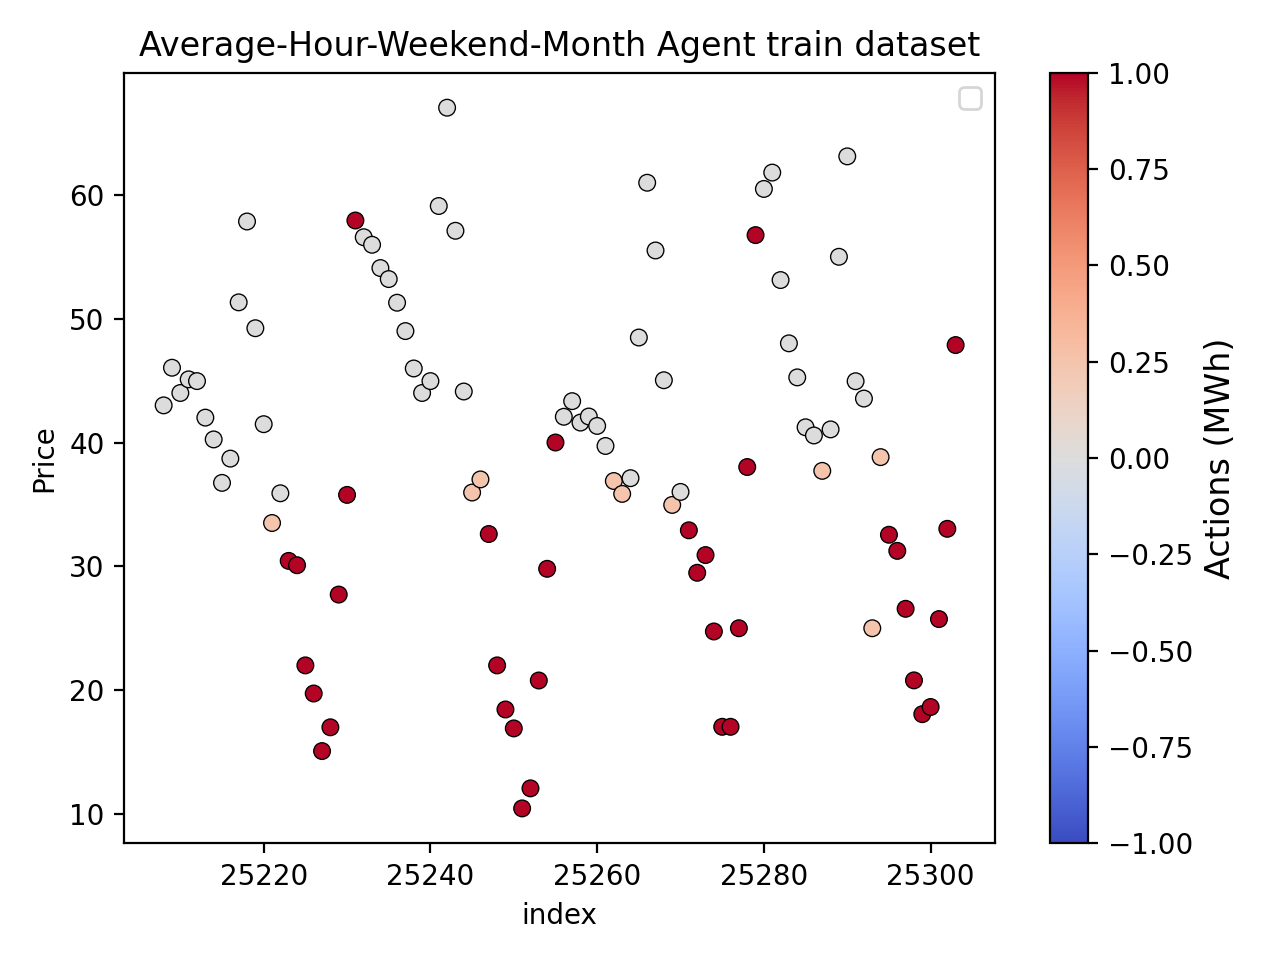
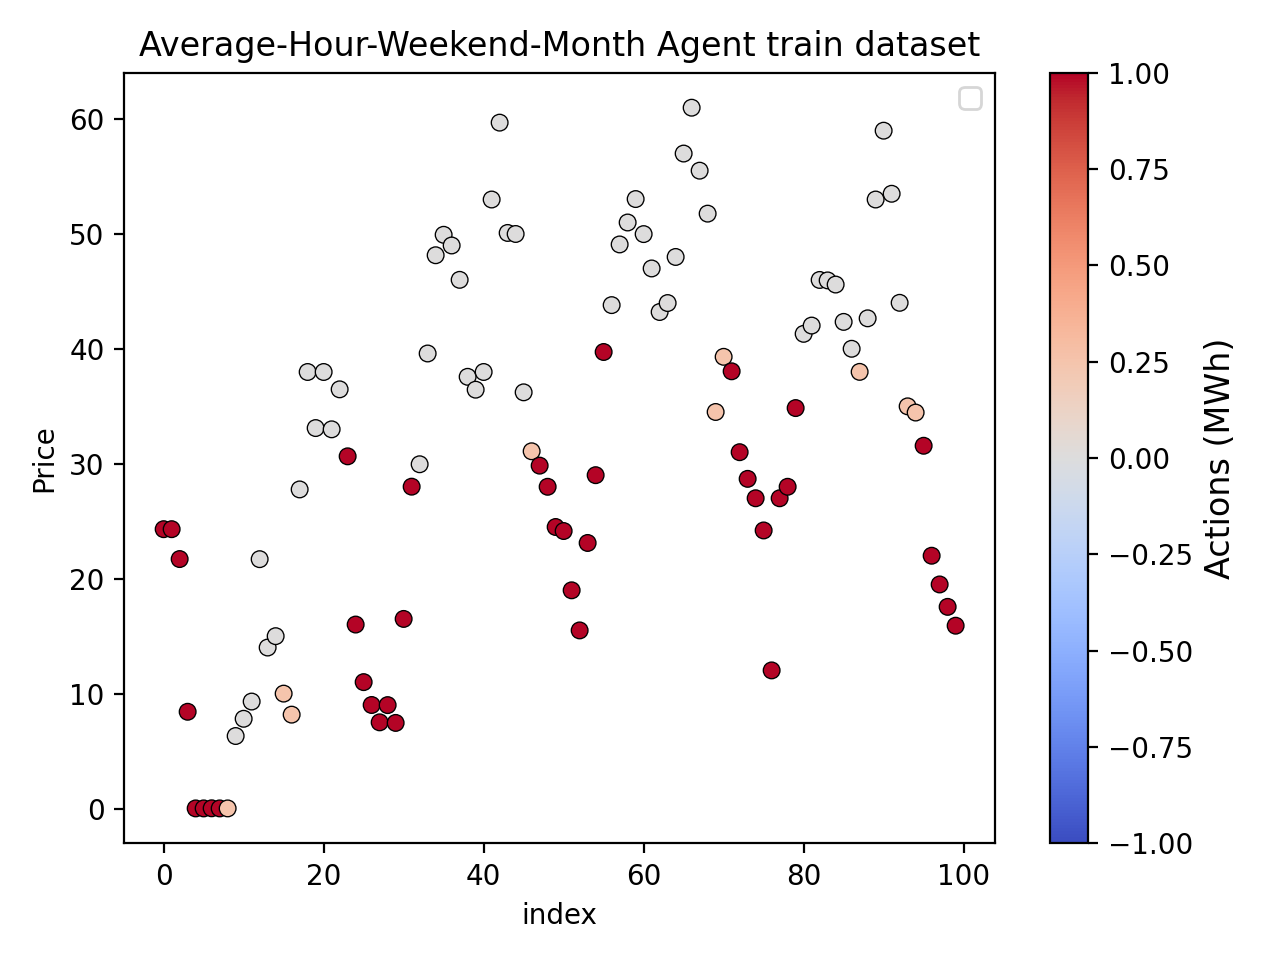
final results before cleanup

diff --git a/main.py b/main.py
@@ -2,8 +2,11 @@ from env import DataCenterEnv
 import numpy as np
 import argparse
 from utils import preprocess_state, extract_bf_number
-from agents import AverageHour, QAgent
+from agents import RandomAgent, AverageHour, QAgent
 import os
+from matplotlib import pyplot as plt
+from pandas import DataFrame
+import seaborn as sns
 
 
 def main(path_to_dataset:str, retrain:bool = False, PRINT:bool = False, agent_params:list|bool = False, retACTIONS: bool = False, 
@@ -12,14 +15,8 @@ def main(path_to_dataset:str, retrain:bool = False, PRINT:bool = False, agent_pa
     # hardcoded agent by hour
     if agent_params:
         agent = AverageHour(*agent_params)
-    # else:
-    #     agent = AverageHour()
-    # agent = Average()
-    
-    # agent = HourAgent()
-    # agent = WeekdayAgent()
-    # Function to extract the BF (best fitness) number
 
+    # QAgent
     elif Agent == QAgent:
         Qtables = [file for file in os.listdir() if file.startswith('Qtable')]
         if len(Qtables) == 0 or retrain == True:
@@ -28,10 +25,12 @@ def main(path_to_dataset:str, retrain:bool = False, PRINT:bool = False, agent_pa
         
         else:
             # Find the file with the highest BF number
-            highest_bf_file = max(Qtables, key=extract_bf_number)
+            # highest_bf_file ='Qtable(5_storages)_eps100_BF-1.752.npy'
+            highest_bf_file ='Qtable(sells)_300sims_epsd100lrd200_df0.99_BF-1.741.npy'
+            # highest_bf_file = max(Qtables, key=extract_bf_number)
             print(f'Using this Qtable: {highest_bf_file}')
             agent = Agent(Qtable_dir = highest_bf_file)
-            
+            # breakpoint()
     
     else:
         agent = Agent()
@@ -58,7 +57,7 @@ def main(path_to_dataset:str, retrain:bool = False, PRINT:bool = False, agent_pa
         action = agent.act(state)
 
         actions.append(action)
-        # action = np.random.uniform(-1, 1)
+
         # next_state is given as: [storage_level, price, hour, day]
         next_state, reward, terminated = environment.step(action)
         # adds relevant features so that now each state is: 
@@ -78,19 +77,160 @@ def main(path_to_dataset:str, retrain:bool = False, PRINT:bool = False, agent_pa
     print(f'Total reward in {nyears} years:', aggregate_reward)
     print('Average reward / year', aggregate_reward / nyears)
 
-    if retACTIONS:
-        return aggregate_reward / nyears, actions
+    if retACTIONS:    
+        return aggregate_reward / nyears, actions, agent
     else:
         return aggregate_reward / nyears
+
+# had to put here because in utils.py had issue with circular imports 
+def performance_plots():
+    files = ['train.xlsx', 'validate.xlsx']
+    names = {0:'Random Agent', 1: 'Average-Hour-Weekend-Month Agent', 2:'Q-learning Agent'}
+    results = DataFrame({'Agent':['Random Agent','Average-Hour-Weekend-Month Agent', 'Q-learning agent'] * 2,
+                        'Dataset': ['train']*3 + ['validate']*3,
+                        'Yearly Cost': [0]*6})
+    count = -1
+    for file in files:
+        dataset = file.split('.')[0]
+        for ia, Agnt in enumerate([RandomAgent, AverageHour, QAgent]):
+            count += 1
+            
+            if Agnt is QAgent:
+                res, acts, agent = main(path_to_dataset=file, retACTIONS=True, Agent= Agnt)
+            else:
+                res, acts, _ = main(path_to_dataset=file, retACTIONS=True, Agent= Agnt)
+
+            results.iloc[count,-1] = -res
+            # if count == 2:
+            data = DataCenterEnv(file).test_data
+            data = data.melt(id_vars='PRICES', var_name='Hour', value_name='Price')
+            data.rename(columns={'PRICES':'Date'}, inplace=True)
+            data = data.sort_values(by=['Date', 'Hour']).reset_index(drop=True)
+            data['Action'] = acts + [0]
+            data['index'] = data.index
+            
+            ############################################
+            # Q table plot (adapted from tutorial notebook)
+            if Agnt is QAgent and file == 'validate.xlsx':
+                # Qt_HIprice, Qt_LOprice, Qt_Mprice = agent.Qtable[:,:,0,:], agent.Qtable[:,:,1,:], agent.Qtable[:,:,2,:]
+                
+                # loop through price levels and 1 plot / price level
+                for price_cat in range(agent.Qtable.shape[2]):
+                    prices = {0:"Above",
+                              1:"Below",
+                              2:"Around"}
+                    
+                    X, Y = np.meshgrid(np.arange(agent.hours.size + 1), np.arange(agent.storage.size + 1))
+                    # breakpoint()
+                    Z = np.zeros((len(X), len(Y)))
+                    A = np.zeros(Z.shape)
+
+                    # hour
+                    for h in range(len(X)):
+                        # storage
+                        for s in range(len(Y)):
+                            a = np.argmax(agent.Qtable[h, s, price_cat,:])
+                            A[h][s] = agent.actions[a] # store "best"actions for hour, storage, price pair
+                            Z[h][s] = agent.Qtable[h, s, price_cat, a] # store corresponding Qvalues
+
+                    fig = plt.figure()
+                    ax = fig.add_subplot(111, projection='3d')
+
+                    # Normalize action values for colormap mapping
+                    norm = plt.Normalize(vmin=-1, vmax=1)  # Ensure -1 is blue, 0 is white, 1 is red
+                    cmap = plt.cm.coolwarm  # Define colormap
+
+                    # Map action values to colors
+                    colors = cmap(norm(A))
+
+                    # Create surface plot with manually mapped colors
+                    surf = ax.plot_surface(X, Y, Z, facecolors=colors, linewidth=0, antialiased=False)
+                    ax.view_init(elev=38, azim=-126) 
+                    
+                    # Remove default ticks and set custom labels
+                    ax.set_xticks([0, 1, 2, 3, 4])  # Positions
+                    ax.set_xticklabels(["Morning", "Noon", "Afternoon", "Evening", "Night"], fontsize=10)
+
+                    ax.set_yticks([0, 1, 2, 3, 4])  # Positions
+                    ax.set_yticklabels(["< 40", "< 80", "< 120", "< 150", "> 150"], fontsize=10)
+
+                    # Optionally remove the tick marks
+                    ax.tick_params(axis='x', which='both', bottom=False, top=False)  # Remove x-axis ticks
+                    ax.tick_params(axis='y', which='both', left=False, right=False)  # Remove y-axis ticks
+                    
+                    # Set labels
+                    ax.set_xlabel('Hour', fontsize=12)
+                    ax.set_ylabel('Storage Level', fontsize=12)
+                    ax.set_zlabel('Q-Value', fontsize=12)
+                    ax.set_title(f'Q-Table (Price Category: {prices[price_cat]} moving weekly average)', fontsize=14)
+
+                    # Create a separate colorbar for actions
+                    sm = plt.cm.ScalarMappable(cmap=cmap, norm=norm)
+                    sm.set_array([])  # Dummy array for colorbar
+                    cbar = fig.colorbar(sm, ax = ax, shrink=0.5, aspect=5)
+                    cbar.set_label('Best Action ±(10 MWh)', fontsize=12)
+
+                    plt.tight_layout()
+                    plt.savefig(f'Qtable{price_cat}.png', dpi = 200)
+                    # plt.show()
+                    plt.close()
+            
+            #################
+            # Time series plot
+            plt.figure()
+            # only plot x days
+            if Agnt: #is QAgent and file == 'validate.xlsx':
+                # breakpoint()
+                slice_to_plot = data.iloc[:100,:]#[-24*31:,:]#[100:7 * 24 + 100,:]#[-72:,:]#[-1096:-1000,:]
+            
+                plot = sns.scatterplot(data = slice_to_plot, x = 'index', y = 'Price', hue = 'Action', hue_norm=(-1,1), palette = 'coolwarm',edgecolor='k', legend = False)
+                plt.title(f'{names[ia]} {dataset} dataset')
+                # plt.yscale('log')
+                plt.legend()
+                norm = plt.Normalize(vmin=-1, vmax=1)
+                sm = plt.cm.ScalarMappable(norm=norm, cmap='coolwarm')
+                sm.set_array([])  # This is required for ScalarMappable to work properly
+                
+                cbar = plt.colorbar(sm, ax=plt.gca())
+                cbar.set_label('Actions (MWh)', fontsize=12)
+                
+                plt.tight_layout()
+                plt.savefig(f'{names[ia]} {dataset}_{slice_to_plot.shape[0]//24}DAYS.png', dpi = 200)
+                # plt.show()
+                plt.close()
+
+    ###################################
+    # Overall AGENTS comparison barplot
+    plt.figure(figsize=(10,10))
+    bp = sns.barplot(data = results, x = 'Dataset', y = 'Yearly Cost', hue = 'Agent', legend=True)
+    # Add data labels
+    for bar in bp.patches:
+        bp.annotate(
+            format(bar.get_height(), '.2e'),  # Format the value
+            (bar.get_x() + bar.get_width() / 2., bar.get_height()),  # Position the label
+            ha='center', va='bottom', size=9  # Alignment and font size
+        )
+    plt.title('Yearly Costs across datasets & agents')
+    plt.legend(loc = 'lower right', facecolor = 'white', framealpha = .95)
+    bp.set_ylabel('Yearly Cost (Millions $)')
+    plt.tight_layout()
+    plt.savefig(f'RESULTS_train-vs-validate.png', dpi = 200)
+    # plt.show()
 
 if __name__ == '__main__':
     args = argparse.ArgumentParser()
     args.add_argument('--path', type=str, default='train.xlsx')
     args.add_argument('--retrain', type=bool, default=False)
+    args.add_argument('--plots', type=bool, default=True)
     args = args.parse_args()
 
     np.set_printoptions(suppress=True, precision=2)
     path_to_dataset = args.path
     reTRAIN = args.retrain
+
     
     main(path_to_dataset=path_to_dataset, retrain=reTRAIN)
+    
+    # make & save plots
+    if args.plots:
+        performance_plots()

diff --git a/agents.py b/agents.py
@@ -213,7 +213,7 @@ class QAgent:
 
         self.price_quartiles = array([0,1,2,3])
 
-        # 5 x 18 x 2 x 3
+        # 5 x 5 x 3 x 3
         self.state_dims = (self.hours.size + 1, self.storage.size + 1, self.above_daily.size, 
                             self.actions.size) #self.winter.size, self.weekend.size,
 
@@ -223,9 +223,9 @@ class QAgent:
             # breakpoint()
         else:
             self.Qtable = zeros(self.state_dims)
-            self.smart_initialize()
-
-            assert self.Qtable.size - count_nonzero(self.Qtable) == 0
+            # doesn't seem to be that beneficial :( 
+            # self.smart_initialize()
+            # assert self.Qtable.size - count_nonzero(self.Qtable) == 0
 
         self.state_visits = zeros(self.Qtable.shape)
             # check for uncaught elements in smart initialization
@@ -238,7 +238,7 @@ class QAgent:
     def discretize_state(self, state:dict):
         # eg. state 'storage': 80.0, 'price': 25.48, 'hour': 9.0, 'weekday': 5.0, 'month': 12.0}
         # breakpoint()
-        storage = digitize(state['storage'], self.storage) # discretized to 18 bins
+        storage = digitize(state['storage'], self.storage) # discretized to 5 bins
         hour = digitize(state['hour'], self.hours) # discretized to 5 bins
         weekend = 0 if state['weekday'] < 5 else 1
         winter = 0 if state['month'] not in (10, 11, 12) else 1
@@ -246,7 +246,7 @@ class QAgent:
 
         # want to return just the indices, since we will use this to index the Q table
         # return [storage, state_dict['price'], hour, weekend, winter]
-        
+        # {0:"Above",1:"Below",2:"Around"}
         # 1 week
         diff_p = mean(self.weekly_price) - state['price']
         daily_p = 1 if diff_p >= 1.5* std(self.weekly_price) else (0 if diff_p <= -1.5 * std(self.weekly_price) else 2)
@@ -263,6 +263,7 @@ class QAgent:
         return [hour, storage, daily_p] # for now winter, weekend
     
     # ~TODO: possibly incorporate weekend / winter info here
+    # doesn't seem to help anymore
     def smart_initialize(self):
         for h, stor, pr, act in product(arange(1, 25), arange(0, 180, 10), self.above_2D, self.actions): # self.winter, self.weekend,
             hi = digitize(h, self.hours)
@@ -288,7 +289,7 @@ class QAgent:
             if debt > (hours_left * 10):
                 # print(h, stor, pr, act)
                 # really bad, want to avoid at all costs
-                self.Qtable[indices] = - 10000
+                self.Qtable[indices] = - 1000
             
             # less than 120 storage
             else:
@@ -309,8 +310,8 @@ class QAgent:
                     else:
                         self.Qtable[indices] = -500 #+ winterBUY + weekendBUY
             
-            # print(h, stor, pr, act)
-            # print(self.Qtable[hi, si, pi, ai])
+            print(h, stor, pr, act)
+            print(self.Qtable[hi, si, pi, ai])
         
 
     # TODO 1: reward shaping ~
@@ -394,7 +395,7 @@ class QAgent:
                     else: # penalize not doing anything
                         RS = -1/5 * abs(reward)
 
-                elif state['storage'] > 130:
+                elif state['storage'] >= 130:
                     if self.actions[action] == -1:  # Reward selling 
                         RS = 1/3* abs(reward)
                     elif self.actions[action] == 1:  # Penalize unnecessary buying
@@ -513,10 +514,3 @@ class QAgent:
         action = argmax(self.Qtable[state[0], state[1], state[2],:]) #state[3], state[4],
         # breakpoint()
         return self.actions[action]
-    
-
-
-if __name__ == '__main__':
-    ag = QAgent()
-    ag.experience_buffer(env)
-    env = DataCenterEnv('train.xlsx')

diff --git a/plots.py b/plots.py
@@ -1,0 +1,70 @@
+from agents import AverageHour, RandomAgent, QAgent
+import seaborn as sns
+from env import DataCenterEnv
+import numpy as np
+
+from main import main
+from matplotlib import pyplot as plt
+from pandas import DataFrame
+
+def performance_plots():
+    files = ['train.xlsx', 'validate.xlsx']
+    names = {0:'Random Agent', 1: 'Average-Hour-Weekend-Month Agent', 2:'Q-learning Agent'}
+    results = DataFrame({'Agent':['Random Agent','Average-Hour-Weekend-Month Agent', 'Q-learning agent'] * 2,
+                        'Dataset': ['train']*3 + ['validate']*3,
+                        'Yearly Cost': [0]*6})
+    count = -1
+    for file in files:
+        dataset = file.split('.')[0]
+        for ia, Agnt in enumerate([RandomAgent, AverageHour, QAgent]):
+            count += 1
+            res, acts = main(path_to_dataset=file, retACTIONS=True, Agent= Agnt)
+
+            results.iloc[count,-1] = -res
+            # if count == 2:
+            data = DataCenterEnv(file).test_data
+            data = data.melt(id_vars='PRICES', var_name='Hour', value_name='Price')
+            data.rename(columns={'PRICES':'Date'}, inplace=True)
+            data = data.sort_values(by=['Date', 'Hour']).reset_index(drop=True)
+            data['Action'] = acts + [0]
+            data['index'] = data.index
+            
+            # if Agnt == QAgent and file == 'validate.xlsx':
+            #     breakpoint()
+
+            plt.figure()
+            # only plot x days
+            slice_to_plot = data.iloc[-72:,:]#[100:7 * 24 + 100,:]#[-72:,:]#[-1096:-1000,:]
+        
+            plot = sns.scatterplot(data = slice_to_plot, x = 'index', y = 'Price', hue = 'Action', hue_norm=(-1,1), 
+                                palette = 'coolwarm',edgecolor='k', legend = False)
+            plt.title(f'{names[ia]} {dataset} dataset')
+            # plt.yscale('log')
+            plt.legend()
+            norm = plt.Normalize(vmin=-1, vmax=1)
+            sm = plt.cm.ScalarMappable(norm=norm, cmap='coolwarm')
+            sm.set_array([])  # This is required for ScalarMappable to work properly
+            
+            cbar = plt.colorbar(sm, ax=plt.gca())
+            cbar.set_label('Actions (MWh)', fontsize=12)
+            
+            plt.tight_layout()
+            plt.savefig(f'{names[ia]} {dataset}_{slice_to_plot.shape[0]//24}DAYS.png', dpi = 200)
+            # plt.show()
+            plt.close()
+
+    plt.figure(figsize=(10,10))
+    bp = sns.barplot(data = results, x = 'Dataset', y = 'Yearly Cost', hue = 'Agent', legend=True)
+    # Add data labels
+    for bar in bp.patches:
+        bp.annotate(
+            format(bar.get_height(), '.2e'),  # Format the value
+            (bar.get_x() + bar.get_width() / 2., bar.get_height()),  # Position the label
+            ha='center', va='bottom', size=9  # Alignment and font size
+        )
+    plt.title('Yearly Costs across datasets & agents')
+    plt.legend(loc = 'lower right', facecolor = 'white', framealpha = .95)
+    bp.set_ylabel('Yearly Cost (Millions $)')
+    plt.tight_layout()
+    plt.savefig(f'RESULTS_train-vs-validate.png', dpi = 200)
+    plt.show()
